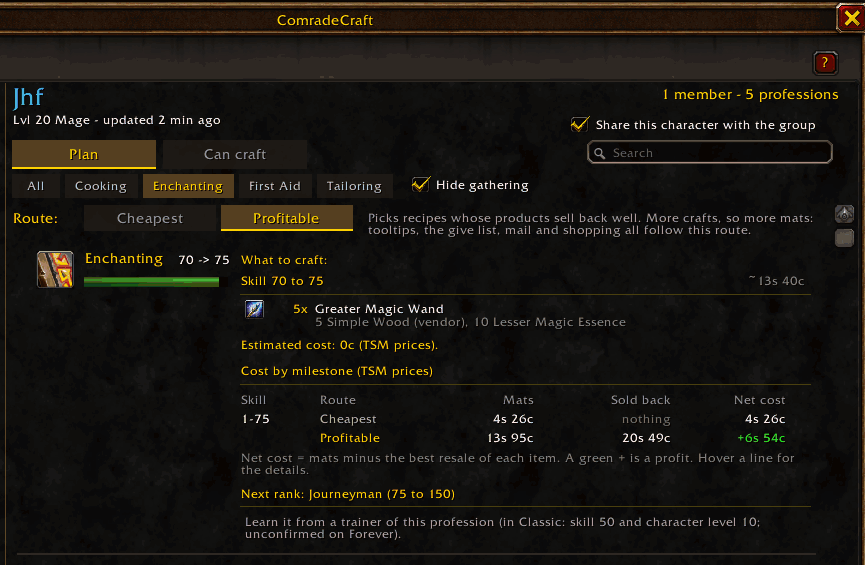
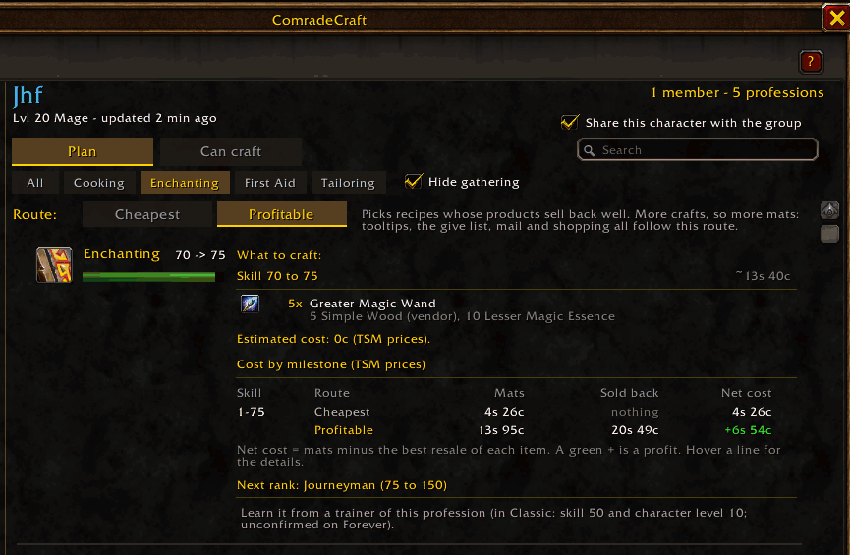
docs: CurseForge images at 850 px max

diff --git a/docs/curseforge-description.html b/docs/curseforge-description.html
@@ -14,7 +14,7 @@
 <p>ComradeCraft fixes each of these, in game, with no website and no spreadsheet. Everything is one click away from its minimap button.</p>
 
 <!-- IMAGE: upload docs/images/plan-window.png in the Images tab, then replace the URL -->
-<p style="text-align: center;"><img src="URL_PLAN_WINDOW" alt="ComradeCraft plan window: leveling route and cost per milestone" width="700"></p>
+<p style="text-align: center;"><img src="URL_PLAN_WINDOW" alt="ComradeCraft plan window: leveling route and cost per milestone" width="850"></p>
 
 <h2>Features</h2>
 <ul>
